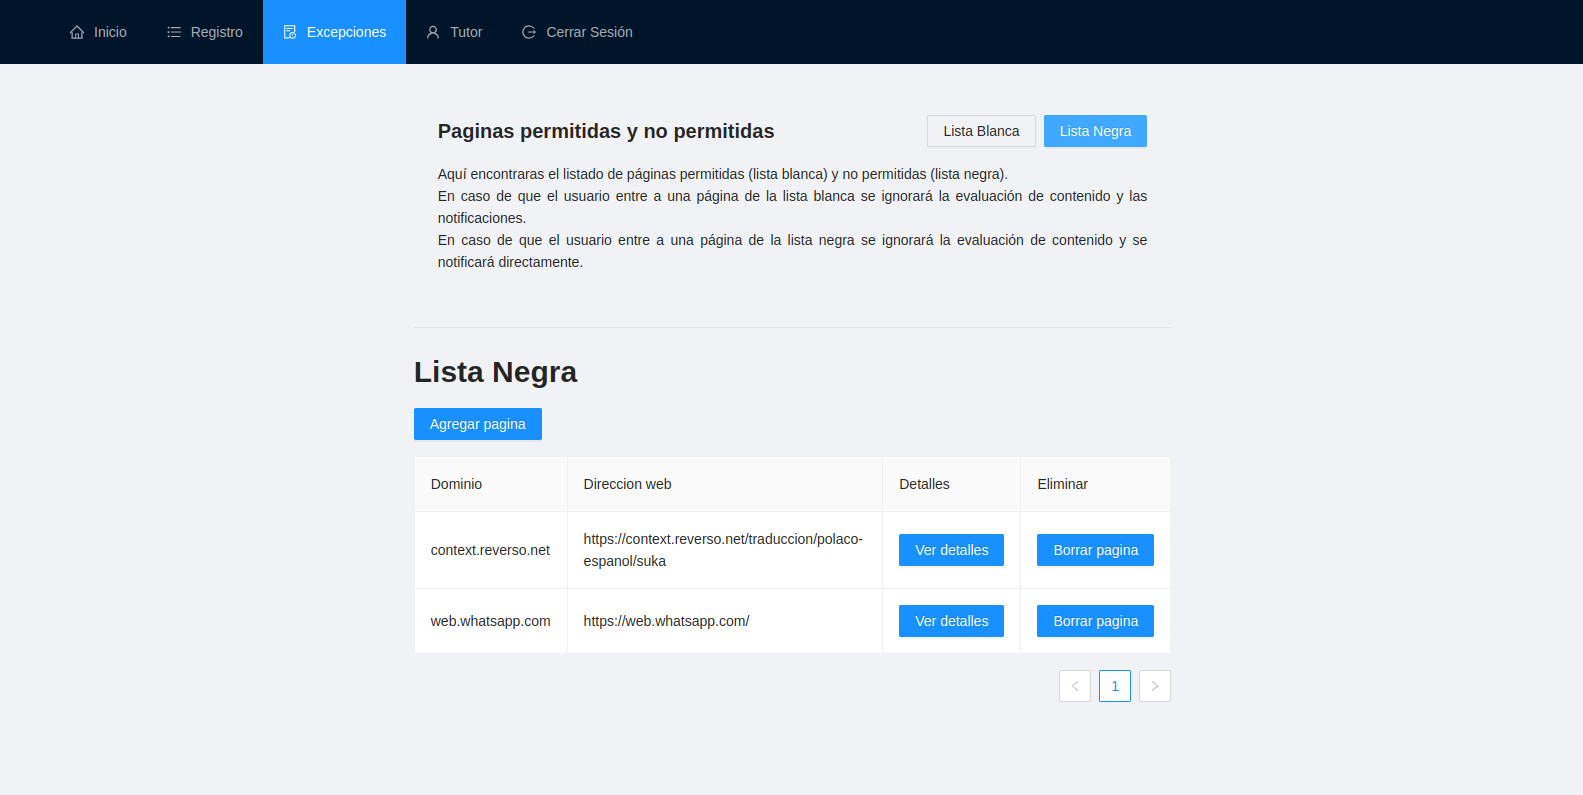
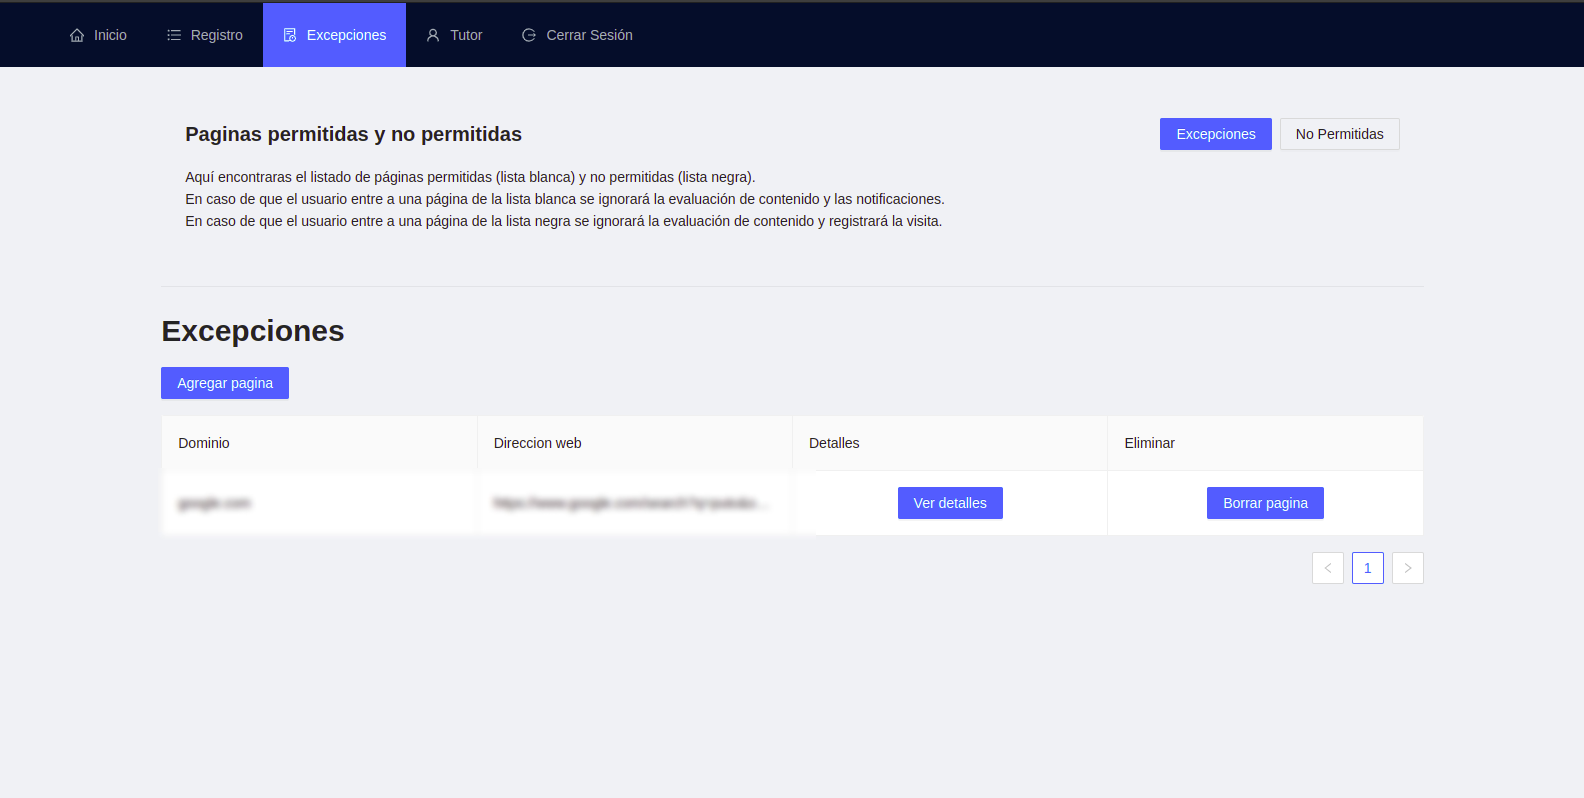
Carousel de las vistas en descripciones generales del Home

diff --git a/src/components/Home/Descripciones/DescripcionesDeVista.js b/src/components/Home/Descripciones/DescripcionesDeVista.js
@@ -19,6 +19,8 @@ import brave from '../../../file/navegadores/brave.png';
 import edge from '../../../file/navegadores/edge.png';
 import opera from '../../../file/navegadores/opera.png';
 import cap_registro from '../../../file/vistas/registro.png';
+import cap_excepciones from '../../../file/vistas/excepciones.png';
+import cap_tutor from '../../../file/vistas/tutor.png';
 import { Link, Navigate } from 'react-router-dom';
 import { LoginContext } from '../../../context/LoginContext';
 
@@ -97,8 +99,9 @@ const DescripcionesDeVista = () => {
     const { setCurrent } = useContext(LoginContext);
     const { Title, Paragraph, Text } = Typography;
 
-    const irRegistro = () => {
-        setCurrent('registro');
+    const irSeccion = (seccion) => {
+        window.scrollTo(0, 0);
+        setCurrent(seccion);
     };
 
     return (
@@ -157,9 +160,10 @@ const DescripcionesDeVista = () => {
                         <Col span={10} style={{ padding: '5%' }}>
                             <Image alt='Captura de Registro' src={cap_registro} />
                             <Link to='/registro'>
-                                <Button onClick={irRegistro}>Ir a Registro</Button>
+                                <Button onClick={() => irSeccion('registro')}>
+                                    Ir a Registro
+                                </Button>
                             </Link>
-                            ,
                         </Col>
                         <Col span={10} style={{ padding: '10px' }}>
                             <Typography>
@@ -176,20 +180,66 @@ const DescripcionesDeVista = () => {
                 </div>
                 <div>
                     <Row className='center' style={contentStyle}>
-                        <Col span={10}>
+                        <Col span={10} style={{ padding: '10px' }}>
                             <Typography>
                                 <Title level={2}>Excepciones</Title>
-                                <Paragraph className='txt-ct'></Paragraph>
+                                <Paragraph className='txt-ct'>
+                                    En la sección de excepciones podrás encontrar las
+                                    paginas que no es necesario que clasifiquemos. Estas
+                                    se clasificarán en dos:
+                                </Paragraph>
+                                <Paragraph className='txt-ct'>
+                                    <Text strong>• Excepciones</Text>: Estas paginas no se
+                                    intentarán clasificar ya que el que pertenezcan a esta
+                                    lista, serán consideradas como permitidas por el tutor
+                                    para que su tutorado visite y navegue sin aviso
+                                    alguno.
+                                </Paragraph>
+                                <Paragraph className='txt-ct'>
+                                    <Text strong>• No Permitidas</Text>: Estas páginas no
+                                    se intentarán clasificar, ya que el que pertenezcan a
+                                    esta lista, significa que son consideradas
+                                    directamente como ofensivas, agresivas y/o vulgares,
+                                    por lo que su visita será registrada.
+                                </Paragraph>
                             </Typography>
+                        </Col>
+                        <Col span={10} style={{ padding: '5%' }}>
+                            <Image alt='Captura de Excepciones' src={cap_excepciones} />
+                            <Link to='/excepciones'>
+                                <Button onClick={() => irSeccion('excepciones')}>
+                                    Ir a Excepciones
+                                </Button>
+                            </Link>
                         </Col>
                     </Row>
                 </div>
                 <div>
                     <Row className='center' style={contentStyle}>
-                        <Col span={12}>
+                        <Col span={10} style={{ padding: '5%' }}>
+                            <Image alt='Captura de Registro' src={cap_tutor} />
+                            <Link to='/perfil'>
+                                <Button onClick={() => irSeccion('tutor')}>
+                                    Ir a Tutor
+                                </Button>
+                            </Link>
+                        </Col>
+                        <Col span={10} style={{ padding: '10px' }}>
                             <Typography>
                                 <Title level={2}>Tutor</Title>
-                                <Paragraph className='txt-ct'></Paragraph>
+                                <Paragraph className='txt-ct'>
+                                    La sección para el tutor permite ver y configurar el
+                                    sistema según lo decida. Puede modificar el número de
+                                    incidencias minimas para el registro de información,
+                                </Paragraph>
+                                <Paragraph className='txt-ct'>
+                                    puede encender o apagar la extensión. Además podrá
+                                    acceder a graficas que resumen algunos datos
+                                    compilados por el sistema como las incidencias
+                                    semanales, el tipo de incidencias por dia, la visita a
+                                    sitios No Permitidos y el tiempo de conexión de la
+                                    extensión.
+                                </Paragraph>
                             </Typography>
                         </Col>
                     </Row>

diff --git a/src/pages/Excepciones.js b/src/pages/Excepciones.js
@@ -30,7 +30,7 @@ const Excepciones = () => {
                                     type= {listaExceptiones ? 'primary': 'ghost'} 
                                     onClick={() => onPressWhiteList()}
                                 >
-                                    Lista Blanca
+                                    Excepciones
                                 </Button>,
                                 <Button
                                     key='2'
@@ -38,7 +38,7 @@ const Excepciones = () => {
                                     type= {!listaExceptiones ? 'primary': 'ghost'} 
                                     onClick={() => onPressBlackList()}
                                 >
-                                    Lista Negra
+                                    No Permitidas
                                 </Button>,
                             ]}
                         >
@@ -58,7 +58,7 @@ const Excepciones = () => {
                                     <br></br>
                                     En caso de que el usuario entre a una página
                                     de la lista negra se ignorará la evaluación
-                                    de contenido y se notificará directamente.
+                                    de contenido y registrará la visita.
                                 </p>
                             </Paragraph>
                         </PageHeader>

diff --git a/src/components/Excepciones/ListaBlanca.js b/src/components/Excepciones/ListaBlanca.js
@@ -95,7 +95,7 @@ export const WhiteList = () => {
 
     return (
         <>
-            <Title level={2}>Lista blanca</Title>
+            <Title level={2}>Excepciones</Title>
             <Button
                 onClick={showModal}
                 type='primary'

diff --git a/src/components/Excepciones/ListaNegra.js b/src/components/Excepciones/ListaNegra.js
@@ -132,7 +132,7 @@ export const BlackList = () => {
 
     return (
         <>
-            <Title level={2}>Lista Negra</Title>
+            <Title level={2}>No Permitidas</Title>
 
             <Button
                 onClick={showModal}
